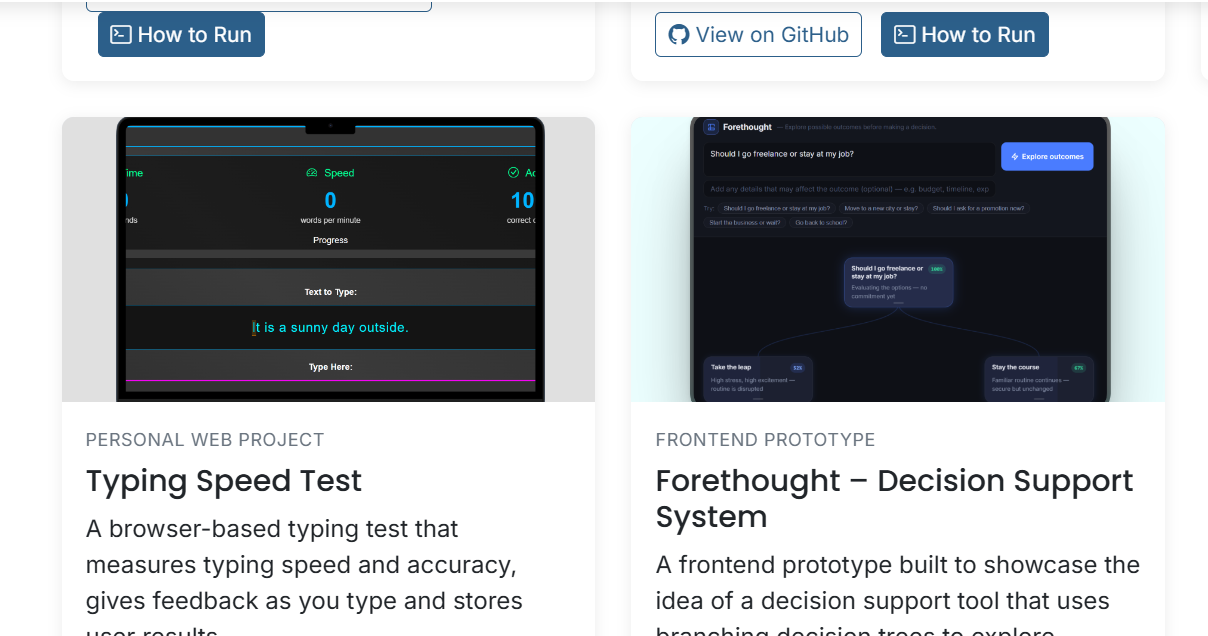
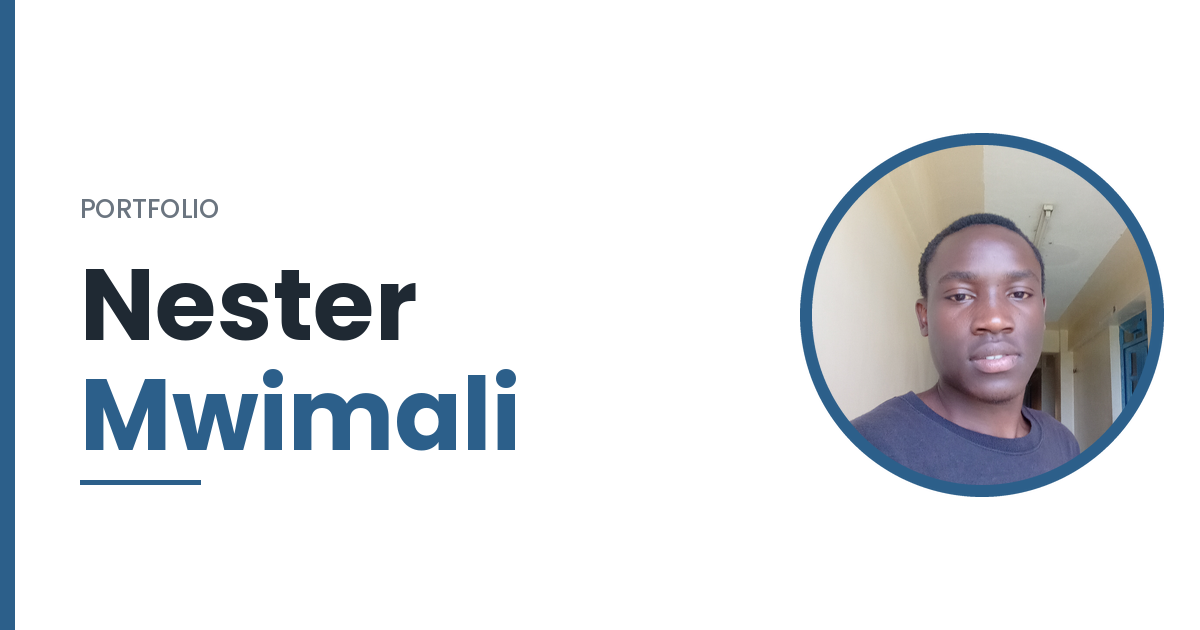
Update profile photo and preview image, improve SEO and Open Graph tags, add Forethought demo link, add linkedin address

diff --git a/index.html b/index.html
@@ -3,18 +3,40 @@
 <head>
   <meta charset="UTF-8">
   <meta name="viewport" content="width=device-width, initial-scale=1.0">
-  <meta name="description" content="Nester Mwimali's IT student portfolio, featuring projects, technical skills, and academic work.">
+  <meta name="description" content="I'm Nester Mwimali and this is my portfolio featuring projects, technical skills, and academic work.">
   <title>Nester Mwimali | IT Student Portfolio</title>
+  <meta name="author" content="Nester Mwimali Wesonga">
+  <meta name="robots" content="index, follow, max-image-preview:large">
+  <meta name="theme-color" content="#2c5f8a">
+  <link rel="canonical" href="https://my-portfolio.nestermwimali.workers.dev/">
+
+  <!-- Favicons -->
+  <link rel="icon" href="favicon.svg" type="image/svg+xml">
+  <link rel="apple-touch-icon" href="apple-touch-icon.png">
 
   <!-- Open Graph tags -->
-  <meta property="og:title" content="My Student Portfolio">
-  <meta property="og:description" content="A look at Nester Mwimali's IT projects, technical skills, and academic work.">
-  <meta property="og:image" content="https://yourdomain.com/images/portfolio-preview.png">
-  <meta property="og:url" content="https://yourdomain.com/">
   <meta property="og:type" content="website">
+  <meta property="og:site_name" content="Nester Mwimali">
+  <meta property="og:locale" content="en_US">
+  <meta property="og:url" content="https://my-portfolio.nestermwimali.workers.dev/">
+  <meta property="og:title" content="Nester Mwimali | IT Student Portfolio">
+  <meta property="og:description" content="Take a look at my IT projects, technical skills, and academic work.">
+  <meta property="og:image" content="https://my-portfolio.nestermwimali.workers.dev/images/portfolio-preview.png">
+  <meta property="og:image:type" content="image/png">
+  <meta property="og:image:width" content="1200">
+  <meta property="og:image:height" content="630">
+  <meta property="og:image:alt" content="Nester Mwimali's portfolio, with a portrait photo">
+
+  <!-- Twitter / X card -->
+  <meta name="twitter:card" content="summary_large_image">
+  <meta name="twitter:title" content="Nester Mwimali | IT Student Portfolio">
+  <meta name="twitter:description" content="Take a look at my IT projects, technical skills, and academic work.">
+  <meta name="twitter:image" content="https://my-portfolio.nestermwimali.workers.dev/images/portfolio-preview.png">
+  <meta name="twitter:image:alt" content="Nester Mwimali's portfolio, with a portrait photo">
 
   <!-- Google Fonts -->
   <link rel="preconnect" href="https://fonts.googleapis.com">
+  <link rel="preconnect" href="https://fonts.gstatic.com" crossorigin>
   <link href="https://fonts.googleapis.com/css2?family=Poppins:wght@500;600;700&family=Inter:wght@400;500;600&display=swap" rel="stylesheet">
 
   <link rel="stylesheet" href="assets/bootstrap/css/bootstrap.min.css">
@@ -65,13 +87,14 @@
     </a>
   </header>
 
+  <main>
   <!-- ===================== ABOUT ===================== -->
   <section id="about">
     <div class="container">
       <h2 class="section-heading">About Me</h2>
       <div class="row align-items-center">
         <div class="col-lg-4 text-center mb-4 mb-lg-0">
-          <img src="images/profile.png" alt="Portrait of Nester Mwimali Wesonga" class="img-fluid profile-img">
+          <img src="images/profile.jpg" alt="Portrait of Nester Mwimali Wesonga" class="img-fluid profile-img">
         </div>
         <div class="col-lg-8">
           <p>
@@ -120,7 +143,7 @@
             <p class="skill-level mt-3">Working Knowledge</p>
             <div>
               <span class="badge skill-badge">Java</span>
-              <span class="badge skill-badge">Python</span>
+              <span class="badge skill-badge">C/C++</span>
             </div>
           </div>
         </div>
@@ -218,7 +241,7 @@
               <p class="project-type">Final-Year Academic Project</p>
               <h3 class="h5 card-title">Crime Management System</h3>
               <p class="card-text">
-                A web-based system for reporting and managing crime cases, with separate dashboards for administrators,
+                A system that supports reporting and managing crime cases, with separate dashboards for administrators,
                 police officers and users.
               </p>
               <div class="tech-stack mb-3">
@@ -230,12 +253,15 @@
                 <span class="badge skill-badge">XAMPP</span>
               </div>
               <div class="mt-auto">
+                <!-- Buttons hidden until the repository is public.
                 <a href="YOUR_GITHUB_REPOSITORY_URL" class="btn btn-sm btn-outline-primary" target="_blank" rel="noopener">
-                  <i class="bi bi-github me-1"></i>View on GitHub[To be added]
+                  <i class="bi bi-github me-1"></i>View on GitHub
                 </a>
                 <a href="YOUR_GITHUB_REPOSITORY_URL" class="btn btn-sm btn-primary mt-1 ms-2" target="_blank" rel="noopener">
                   <i class="bi bi-terminal me-1"></i>How to Run
                 </a>
+                -->
+                <p class="text-muted small mb-0"><i class="bi bi-clock-history me-1"></i>Source code coming soon on GitHub.</p>
               </div>
             </div>
           </div>
@@ -355,7 +381,7 @@
                 <a href="https://github.com/Nester09/forethought-decision-support-system" class="btn btn-sm btn-outline-primary" target="_blank" rel="noopener">
                   <i class="bi bi-github me-1"></i>View on GitHub
                 </a>
-                <a href="YOUR_LIVE_DEMO_URL" class="btn btn-sm btn-primary ms-2" target="_blank" rel="noopener">
+                <a href="https://forethought-decision-support-system.nestermwimali.workers.dev/" class="btn btn-sm btn-primary ms-2" target="_blank" rel="noopener">
                   <i class="bi bi-box-arrow-up-right me-1"></i>Live Demo
                 </a>
               </div>
@@ -406,7 +432,7 @@
       </div>
       <div class="text-center mt-4">
         <a href="assets/Nester_Mwimali-CV.pdf" class="btn btn-primary btn-lg" target="_blank" rel="noopener">
-          <i class="bi bi-download me-2"></i>Download CV
+          <i class="bi bi-eye me-2"></i>View My CV
         </a>
       </div>
     </div>
@@ -438,12 +464,14 @@
           </div>
           <div class="contact-item">
             <i class="bi bi-linkedin"></i>
-            <a href="YOUR_LINKEDIN_URL" target="_blank" rel="noopener">LinkedIn</a>
+            <a href="https://www.linkedin.com/in/nester-mwimali-wesonga" target="_blank" rel="noopener">LinkedIn</a>
           </div>
         </div>
       </div>
     </div>
   </section>
+
+  </main>
 
   <!-- ===================== FOOTER ===================== -->
   <footer>
@@ -451,7 +479,7 @@
       <p class="mb-2">Nester Mwimali &mdash; Thika, Kenya</p>
       <div class="social-links mb-3">
         <a href="https://github.com/Nester09" target="_blank" rel="noopener" aria-label="GitHub"><i class="bi bi-github"></i></a>
-        <a href="YOUR_LINKEDIN_URL" target="_blank" rel="noopener" aria-label="LinkedIn"><i class="bi bi-linkedin"></i></a>
+        <a href="https://www.linkedin.com/in/nester-mwimali-wesonga" target="_blank" rel="noopener" aria-label="LinkedIn"><i class="bi bi-linkedin"></i></a>
         <a href="mailto:nestermwimali@gmail.com" aria-label="Email"><i class="bi bi-envelope"></i></a>
       </div>
       <p class="mb-0 footer-copy">&copy; <span id="currentYear"></span> Nester Mwimali. All rights reserved.</p>
